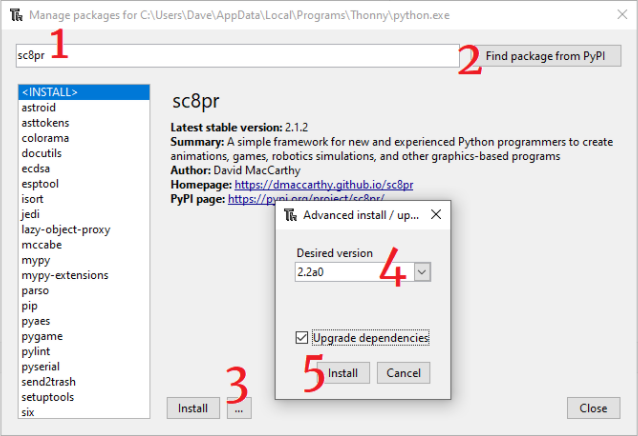
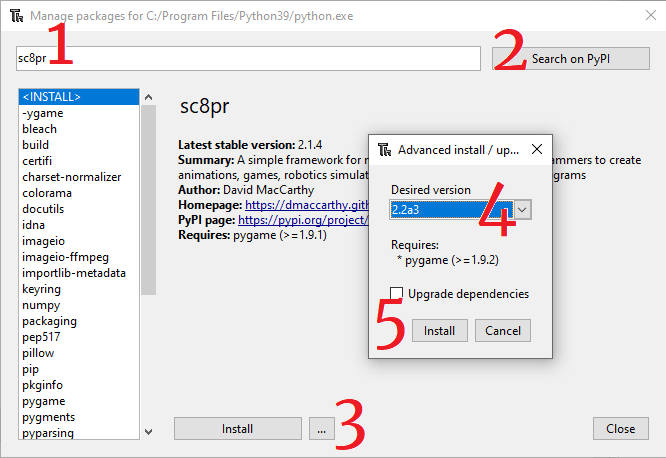
Update [2021.10.10]

diff --git a/sci/p20/p20.js b/sci/p20/p20.js
@@ -1,54 +1,20 @@
-let kin1d = [
-    // {title:"Assignment Booklet", gdrv:"16_BYOnwY0FuwW7wXeVVwQ88IoC7tZ2gb"},
-    {title:"Position & Displacement", icon:1, vid:"V8hJhTE3bUk", menu:[
-        {title:"Lesson Notes", open:"kin/displ.html"},
-        {title:"Assignment Handout", gdrv:"13YDvlb2IifPhmuuTyGMwO65T82H77bzL"},
-        {title:"Practice Solutions", gdoc:"1EkZMELpyV191px9oqb_zru74Xaf01eEAZsmLG4c3-jw"},
-    ]},
-    {title:"Velocity & Speed", icon:1, menu:[
-        {title:"Lesson Notes", open:"kin/vel.html"},
-        {title:"Assignment Handout", gdrv:"1P3ebOhTWW83ybxkfQxX2ASKBcCrnHz90"},
-        {title:"Practice Solutions", gdoc:"1eRjia_G9Zny7pNvpGp282N-XVMRCjJh9MWwRlNCW36A"},
-    ]},
-    {title:"Lab: Motion of a Rolling Ball", gdrv:"1W92quSuyMqFEnT1QdJlm0Y4poPIvDTGI"},
-    {title:"Motion Graphs", icon:1, menu:[
-        {title:"Lesson Notes", open:"kin/graph.html"},
-        {title:"Assignment Handout", gdrv:"1AIEupND1GX2W-yd5QZ0CaDh97KE7mM8n"},
-        {title:"Practice Solutions", gdoc:"12uwMmaCWOsEemtR8fj6jujP-FjGihNef3Wn08nHmCOY"},
-    ]},
-    {title:"Acceleration", icon:1, menu:[
-        {title:"Lesson Notes", open:"kin/accel.html"},
-        {title:"Assignment Handout", gdrv:"1Cy9IOAlj7GwufjHM6vHXMa2UgCaH539S"},
-        {title:"Practice Solutions", gdoc:"1RVLIxYzDym_sqjgL8SYdxtLIts9mJ0BAcoEG0FCZfvo"},
-    ]},
-    {title:"Lab: Motion of a Bouncing Ball", icon:"ball", menu:[
-        {title:"Handout", gdrv:"10Huo142Lt2-qn3suDdfvbK3wp6Cg2TeA"},
-        {title:"Simulation", icon:1, open:"../applet/bounce.html"},
-    ]},
-    {title:"Uniform Accelerated Motion", icon:1, menu:[
-        {title:"Lesson Notes", open:"kin/uam.html"},
-        {title:"Assignment Handout", gdrv:"1FkSyKa-Sd_jvq5MhwjypL0p1MtL__jMv"},
-        {title:"Practice Solutions", gdoc:"14GrA1jhjfFNOpCzbr0xraPt_mwPBfb3PHOFu7G6e6XQ"},
-    ]}
-];
-
 let vec2d = [
     // {title:"Assignment Booklet", gdrv:"1qG81lRprAmdtcidfph_w-1kyF1VJUFrd"},
     {title:"2D Vectors Applet", icon:"html5", open:"https://applets.davidmaccarthy.repl.co/vec2d"},
     {title:"Magnitude & Direction", icon:1, menu:[
         {title:"Lesson Notes", open:"vec/mag.html"},
-        {title:"Assignment Handout", unavail:1, gdrv:""},
-        {title:"Practice Solutions", unavail:1, gdoc:"14vQp9XvGS1yPjDoLDfFNE2u5MAnIqKgcXTgIAwVCRQQ"},
+        {title:"Assignment Handout", gdrv:"1vim1oj76fW9OQc6tCA_mwlSIH4ejfbbk"},
+        {title:"Practice Solutions", gdoc:"14vQp9XvGS1yPjDoLDfFNE2u5MAnIqKgcXTgIAwVCRQQ"},
     ]},
     {title:"Polar & Cartesian Form", icon:1, menu:[
         {title:"Lesson Notes", open:"vec/polar.html"},
-        {title:"Assignment Handout", unavail:1, gdrv:""},
-        {title:"Practice Solutions", unavail:1, gdoc:"14-CgdDFUiCwpJfPlghKpw1iMRfC8J3NJBwrNP20fois"},
+        {title:"Assignment Handout", gdrv:"1GzdkoyY60Nn2LaQ93qSoy8WUVFdeLBt-"},
+        {title:"Practice Solutions", gdoc:"14-CgdDFUiCwpJfPlghKpw1iMRfC8J3NJBwrNP20fois"},
     ]},
     {title:"Vector Arithmetic", icon:1, menu:[
         {title:"Lesson Notes", open:"vec/arith.html"},
-        {title:"Assignment Handout", unavail:1, gdrv:""},
-        {title:"Practice Solutions", unavail:1, gdoc:"1960E_v1vFacD-7sbtFqrE3Xzqjr32rO4H435r4aT3WM"},
+        {title:"Assignment Handout", gdrv:"15xe5uJ67N0FNz4171ZUIm2y0sT7tL_xM"},
+        {title:"Practice Solutions", gdoc:"1960E_v1vFacD-7sbtFqrE3Xzqjr32rO4H435r4aT3WM"},
     ]},
     {title:"Projectile Motion", icon:1, menu:[
         {title:"Lesson Notes", open:"vec/proj.html"},
@@ -137,6 +103,40 @@ let energy = [
         {title:"Practice Solutions", gdoc:"1PHRVmr9tMgm8ncSCnykQ1zYYznPADaJZV1KcrYZAWmQ"},
     ]},
     {title:"Chapter Review", icon:"lesson", ajax:"energy/summary.htm", menu:[]},
+];
+
+let kin1d = [
+    // {title:"Assignment Booklet", gdrv:"16_BYOnwY0FuwW7wXeVVwQ88IoC7tZ2gb"},
+    {title:"Position & Displacement", icon:1, vid:"V8hJhTE3bUk", menu:[
+        {title:"Lesson Notes", open:"kin/displ.html"},
+        {title:"Assignment Handout", gdrv:"13YDvlb2IifPhmuuTyGMwO65T82H77bzL"},
+        {title:"Practice Solutions", gdoc:"1EkZMELpyV191px9oqb_zru74Xaf01eEAZsmLG4c3-jw"},
+    ]},
+    {title:"Velocity & Speed", icon:1, menu:[
+        {title:"Lesson Notes", open:"kin/vel.html"},
+        {title:"Assignment Handout", gdrv:"1P3ebOhTWW83ybxkfQxX2ASKBcCrnHz90"},
+        {title:"Practice Solutions", gdoc:"1eRjia_G9Zny7pNvpGp282N-XVMRCjJh9MWwRlNCW36A"},
+    ]},
+    {title:"Lab: Motion of a Rolling Ball", gdrv:"1W92quSuyMqFEnT1QdJlm0Y4poPIvDTGI"},
+    {title:"Motion Graphs", icon:1, menu:[
+        {title:"Lesson Notes", open:"kin/graph.html"},
+        {title:"Assignment Handout", gdrv:"1AIEupND1GX2W-yd5QZ0CaDh97KE7mM8n"},
+        {title:"Practice Solutions", gdoc:"12uwMmaCWOsEemtR8fj6jujP-FjGihNef3Wn08nHmCOY"},
+    ]},
+    {title:"Acceleration", icon:1, menu:[
+        {title:"Lesson Notes", open:"kin/accel.html"},
+        {title:"Assignment Handout", gdrv:"1Cy9IOAlj7GwufjHM6vHXMa2UgCaH539S"},
+        {title:"Practice Solutions", gdoc:"1RVLIxYzDym_sqjgL8SYdxtLIts9mJ0BAcoEG0FCZfvo"},
+    ]},
+    {title:"Lab: Motion of a Bouncing Ball", icon:"ball", menu:[
+        {title:"Handout", gdrv:"10Huo142Lt2-qn3suDdfvbK3wp6Cg2TeA"},
+        {title:"Simulation", icon:1, open:"../applet/bounce.html"},
+    ]},
+    {title:"Uniform Accelerated Motion", icon:1, menu:[
+        {title:"Lesson Notes", open:"kin/uam.html"},
+        {title:"Assignment Handout", gdrv:"1FkSyKa-Sd_jvq5MhwjypL0p1MtL__jMv"},
+        {title:"Practice Solutions", gdoc:"14GrA1jhjfFNOpCzbr0xraPt_mwPBfb3PHOFu7G6e6XQ"},
+    ]}
 ];
 
 /*

diff --git a/sci/cs/game/sketch.html b/sci/cs/game/sketch.html
@@ -23,20 +23,20 @@ let course = "game";
     which is based on <a href="https://www.pygame.org" target="pyg" class="Code">pygame</a>.</p>
 <p>You will need both <code>pygame</code> and <code>sc8pr</code> installed for programs to work.
     If you are using <a class="Code" target="repl" href="https://repl.it">repl.it</a>, the built-in package manager should recognize programs that require these packages
-    and install them automatically. You may need to edit the repl.it packager files to specify the appropriate versions of the software; this tutorial assumes <code>sc8pr 2.2a0</code> and <code>pygame 1.9.6</code> or <code>2.0.1</code>.</p>
+    and install them automatically. You may need to edit the repl.it packager files to specify the appropriate versions of the software; this tutorial assumes <code>sc8pr 2.2a3</code> and <code>pygame 1.9.6</code> or <code>2.0.x</code>.</p>
 <p> If you are using <a target="Th" href="https://thonny.org/">Thonny</a> as an IDE, go to the “Tools” menu and open the “Manage Packages…” dialog.</p>
 <p class="Center"><img src="img/thonny.png" alt="Thonny"/></p>
 <ol>
     <li>Type the name of the software package, <code>sc8pr</code>.</li>
     <li>Click the button to search the Python Package Index (PyPI).</li>
     <li>Click the three dots.</li>
-    <li>Select the desired version: <code>2.2a0</code>.</li>
+    <li>Select the desired version: <code>2.2a3</code>.</li>
     <li>Check “Upgrade Dependencies” and then click the Install button.</li>
 </ol>
 <p>If you are not using Thonny, you can run the following command in a terminal. You may need to run it as an administrator.</p>
-<pre class="IO">pip3 install -U sc8pr==2.2a0</pre>
+<pre class="IO">pip3 install -U sc8pr==2.2a3</pre>
 <p>There may be different ways to invoke the <code>pip3</code> command depending on what operating system you are using and how the Python environment is configured. For example, if Windows does not recognize the <code>pip3</code> command, try:</p>
-<pre class="IO">py -3 -m pip install -U sc8pr==2.2a0</pre>
+<pre class="IO">py -3 -m pip install -U sc8pr==2.2a3</pre>
 <p>Installing <code>sc8pr</code> should install <code>pygame</code> automatically on most platforms.</p>
 </div>
 

diff --git a/sci/cs/robo/intro.html b/sci/cs/robo/intro.html
@@ -39,7 +39,7 @@ let course = "robo";
     <li>Type the name of the software package, <code>sc8pr</code>.</li>
     <li>Click the button to search the Python Package Index (PyPI).</li>
     <li>Click the three dots.</li>
-    <li>Select the desired version. This course uses <code>sc8pr 2.2a0</code>.</li>
+    <li>Select the desired version. This course uses <code>sc8pr 2.2a3</code>.</li>
     <li>Check “Upgrade Dependencies” and then click the Install button.</li>
 </ol>
 </div>
@@ -55,7 +55,7 @@ let course = "robo";
 
 <pre class="Code"><span class="Comment"># Program 'r01_ex1.py'...</span>
 
-from sc8pr.examples.robotSim import Arena
+from sc8pr.robot.arena import Arena
 
 def brain(robot):
     <span class="Comment">"This function controls the robot"</span>
@@ -89,7 +89,7 @@ Arena.run(brain)</pre>
 
 <pre class="Code"><span class="Comment"># Program 'r01_ex2.py'...</span>
 
-from sc8pr.examples.robotSim import Arena
+from sc8pr.robot.arena import Arena
 
 def brain(robot):
     <span class="Comment">"Move the robot clockwise"</span>
@@ -103,7 +103,7 @@ Arena.run(brain)</pre>
 
 <pre class="Code"><span class="Comment"># Program 'r01_ex3.py'...</span>
 
-from sc8pr.examples.robotSim import Arena
+from sc8pr.robot.arena import Arena
 
 def brain(robot):
     <span class="Comment">"Spin the robot clockwise"</span>
@@ -121,7 +121,7 @@ Arena.run(brain)</pre>
 
 <pre class="Code"><span class="Comment"># Program 'r01_ex4.py'...</span>
 
-from sc8pr.examples.robotSim import Arena
+from sc8pr.robot.arena import Arena
 
 def brain(robot):
     <span class="Comment">"Go forward for 2.5 seconds"</span>
@@ -141,7 +141,7 @@ Arena.run(brain)</pre>
     program <code>r01_letter.py</code>  to make the robot draw a different letter on the floor of the arena.
 <!--pre class="Code"><span class="Comment"># Program 'r01_letter.py'...</span>
 
-from sc8pr.examples.robotSim import Arena
+from sc8pr.robot.arena import Arena
 
 def brain(robot):
     <span class="Comment">"Draw a letter"</span>

diff --git a/sci/p20/vec/arith.html b/sci/p20/vec/arith.html
@@ -90,7 +90,7 @@ td {text-align:center}
 </section>
 
 <section id="ex1" data-last="?"><h3>Example</h3>
-<p class="Blue">Calculate the acceleration of a 10.0-kilogram mass that experiences a normal force of 96.6 N [80.0°] and a friction force of 8.00 N [170°] in addition to gravity.</p>
+<p class="Blue">Calculate the net force acting on a mass that experiences a gravitational force of 98.1 N, a normal force of 96.6 N [80.0°] and a friction force of 8.00 N [170°].</p>
 <p class="Center" data-mark="="><img src="img/ex1.png" alt="VecDiag" class="w16"/><br/>
 <table class="Normal" data-mark="+">
     <tr><th>Force</th><th>\(|\vec{\mathbf F}|\) / N</th><th>\(\theta\)</th><th>\(\vec{\mathbf F}_x = |\vec{\mathbf F}|\cos\theta\)</th><th>\(\vec{\mathbf F}_y = |\vec{\mathbf F}|\sin\theta\)</th></tr>
@@ -99,8 +99,8 @@ td {text-align:center}
     <tr><td>Friction</td><td>8.00</td><td>170°</td><td><span data-mark="+" class="Red">–7.88</span></td><td><span data-mark="=" class="Red">1.39</span></td></tr>
     <tr><td>Net</td><td><span data-mark="5" class="Red">9.04</span></td><td><span data-mark="6" class="Red">350°</span></td><td><span data-mark="4" class="Red">8.90</span></td><td><span data-mark="4" class="Red">–1.57</span></td></tr>
 </table>
-<p data-mark="+">Now use Newton’s 2nd Law: $$\vec{\mathbf a} = {\vec{\mathbf F}_{net} \over m}$$</p>
-<p data-mark="+">The acceleration is 0.904 m/s<sup>2</sup> [350°] in polar form, or (0.890, –0.157) m/s<sup>2</sup> in Cartesian form.</p>
+<!--p data-mark="+">Now use Newton’s 2nd Law: $$\vec{\mathbf a} = {\vec{\mathbf F}_{net} \over m}$$</p>
+<p data-mark="+">The acceleration is 0.904 m/s<sup>2</sup> [350°] in polar form, or (0.890, –0.157) m/s<sup>2</sup> in Cartesian form.</p-->
 </section>
 
 </article></body>

diff --git a/sci/cs/robo/func.html b/sci/cs/robo/func.html
@@ -41,7 +41,7 @@ let course = "robo";
 
 <pre class="Code"><span class="Comment"># Program 'r03_ex1.py'</span>
 
-from sc8pr.examples.robotSim import Arena
+from sc8pr.robot.arena import Arena
 
 def move(robot, time, motors=1):
     <span class="Comment">"Move the robot for the specified amount of time"</span>
@@ -103,7 +103,7 @@ robot.motors = 0            <span class="Comment"># Turn motors off</span></pre>
 
 <pre class="Code"><span class="Comment"># Program 'r03_turn.py'</span>
 
-from sc8pr.examples.robotSim import Arena
+from sc8pr.robot.arena import Arena
 
 def turnTo(robot, angle, motors=(0.1, -0.1), accuracy=0.5):
     <span class="Comment">"Turn the robot until it faces the specified angle"</span>
@@ -120,7 +120,7 @@ Arena.run(brain)</pre></li>
     Complete the program below by copying your <code>turnTo</code> function.
 <pre class="Code"><span class="Comment"># Program 'r03_figure8.py'</span>
 
-from sc8pr.examples.robotSim import Arena
+from sc8pr.robot.arena import Arena
 
 def circle(robot, motors):
     <span class="Comment">"Draw a circle"</span>
@@ -141,7 +141,7 @@ Arena.run(brain)</pre></li>
     This will be easiest if you use your <code>turnTo</code> function and the <code>move</code> function from the example.
 <pre class="Code"><span class="Comment"># Program 'r03_square.py'</span>
 
-from sc8pr.examples.robotSim import Arena
+from sc8pr.robot.arena import Arena
 
 def square(robot, time_per_side, motors=1):
     <span class="Comment">"Move around a square"</span>

diff --git a/sci/cs/game/mouse.html b/sci/cs/game/mouse.html
@@ -67,7 +67,7 @@ Sketch().play()</pre>
     method (shown above in red).</p>
 
 <h3>Project</h3>
-<p>Create your own video game using the <code>v05_game.py</code> program. Your game can be original or a
+<p>Create your own video game using the <code>game.py</code> program. Your game can be original or a
     recreation of a classic game but your code must be 100% your own. It must be graphics-based (as
     opposed to a console game) and the player must be able to interact using mouse and/or keyboard events.
     Your program must follow good programming practices, such as:</p>
@@ -78,7 +78,7 @@ Sketch().play()</pre>
     <li>Procedures that perform a single task</li>
     <li>IPO structure within each procedure (input first, then processing, and output only after all processing is complete)</li>
 </ul>
-<p>Use the <code>img</code> folder for any images and/or audio files required by your program.</p>
+<p>Use the <code>media</code> folder for any images and/or audio files required by your program.</p>
 <p>After completing the program, you must also make a <em>User’s Manual</em> to explain the goal of the
     game and how to use it. Save a copy of this <a target="GDoc" href="https://docs.google.com/document/d/1QG7S6bSxuvmEO79HSuHO2w66VpvQqZjkbfbo2zuw2jI">Google
     Doc</a>. There is a “Credits” section for you to record the source of any images or audio that you did

diff --git a/sci/cs/robo/colour.html b/sci/cs/robo/colour.html
@@ -26,7 +26,7 @@ let course = "robo";
     so you must call the <code>robot.updateSensors</code> function before checking the sensor colours.</p>
 <pre class="Code"><span class="Comment"># Program 'r04_ex1.py'</span>
 
-from sc8pr.examples.robotSim import Arena, quilt
+from sc8pr.robot.arena import Arena, quilt
 
 def brain(robot):
     robot.motors = 0.3
@@ -100,7 +100,7 @@ Arena.run(brain, pattern=quilt)</pre>
     either <code>True</code> (the colour is blue) or <code>False</code> (the colour is not blue.)</p>
 <pre class="Code"><span class="Comment"># Program 'r04_ex2.py'</span>
 
-from sc8pr.examples.robotSim import Arena, quilt
+from sc8pr.robot.arena import Arena, quilt
 from sc8pr.misc.hsv import hsvBox
 
 def isBlue(color):
@@ -126,7 +126,7 @@ Arena.run(brain, pattern=quilt)</pre>
     warning track instead of running into the wall.
 <pre class="Code"><span class="Comment"># Program 'r04_arena1.py'</span>
 
-from sc8pr.examples.robotSim import Arena, quilt
+from sc8pr.robot.arena import Arena, quilt
 
 def brain(robot):
     turnTo(robot, 290)

diff --git a/sci/cs/robo/list.html b/sci/cs/robo/list.html
@@ -84,7 +84,7 @@ for item in data:
     move forward again for 2 seconds, turn by 90°, and then move forward for 2 seconds.
 <pre class="Code"><span class="Comment"># Program 'r06_directions.py'</span>
 
-from sc8pr.examples.robotSim import Arena
+from sc8pr.robot.arena import Arena
 
 data = [3, 135, 2, 90, 2]
 
@@ -108,7 +108,7 @@ Complete the <code>brain</code> function so that the robot follows the instructi
     then change it to twelve once you know the program works properly.)</p>
 <pre class="Code"><span class="Comment"># Program 'r06_party.py'</span>
 
-from sc8pr.examples.robotSim import Party
+from sc8pr.robot.party import Party
 
 def brain(robot):
     <span class="Comment">"Learn the names of the other robots"</span>

diff --git a/sci/cs/robo/park.html b/sci/cs/robo/park.html
@@ -26,7 +26,7 @@ let course = "robo";
     bluish-white, which will have the same H and V values as ordinary blue, but a smaller S value.
 <pre class="Code"><span class="Comment"># Program 'r07_line1.py'</span>
 
-from sc8pr.examples.robotSim import ParkingLot
+from sc8pr.robot.park import ParkingLot
 
 def followLine(robot):
     <span class="Comment">"Follow the blue line"</span>
@@ -50,7 +50,7 @@ ParkingLot.run(brain)</pre>
     and by a much larger amount when it turns around at the end.
 <pre class="Code"><span class="Comment"># Program 'r07_ex1.py'</span>
 
-from sc8pr.examples.robotSim import ParkingLot
+from sc8pr.robot.park import ParkingLot
 
 def brain(robot):
     robot.gyroSample(3)

diff --git a/sci/cs/robo/soccer.html b/sci/cs/robo/soccer.html
@@ -24,12 +24,12 @@ let course = "robo";
 
 <span class="Comment">"Robot soccer simulation"</span>
 
-from sc8pr.examples.soccer import main
+from sc8pr.robot.soccer import play
 
 def brain(robot):
     <span class="Comment">"Soccer robot brain"</span>
 
-main(brain)</pre>
+play(brain)</pre>
 
 <p>The robot’s front sensor will detect blue when pointed at the boards, yellow (different shades) when pointed at the opposing player or net, and red when pointed at its own net. Since the ball is half black and half white, it will register as grey on the colour sensor.</p>
 <p>The downward sensor will detect yellow or red in the goal creases and green on the turf.</p>

diff --git a/sci/s10/s10.js b/sci/s10/s10.js
@@ -4,7 +4,7 @@ let phys = {title:"Unit B: Physics", id:"phys", icon:"rocket", menu:[
     {title:"Assignment Booklet", gdrv:"1dKbreMxOXUs2u_TwsgtoqFPgQIS9PVAM"},
     // {title:"Science Skills", icon:"flask", menu:[]},
     {title:"Part 1: Science Skills & Motion", icon:"rocket", menu:[
-        {title:"Significant Digits", unavail:1, icon:1, open:"phys/sigdig.html"},
+        // {title:"Significant Digits", unavail:1, icon:1, open:"phys/sigdig.html"},
         {title:"Scientific Notation", icon:1, open:"phys/sciNot.html"},
         {title:"SI Units", icon:1, open:"phys/si.html"},
         // {title:"Scientific Method", icon:1, open:"phys/sciMeth.html"},

diff --git a/sci/cs/robo/turn.html b/sci/cs/robo/turn.html
@@ -22,7 +22,7 @@ let course = "robo";
 <p>A better method is to rely on the robot’s <b class="Red">sensors</b> to decide when to stop the motors. The <code>sc8pr</code> robot simulation has a sensor called <code>gyro</code> (gyroscope) that indicates the direction the robot is pointing.</p>
 <pre class="Code"><span class="Comment"># Program 'r02_ex1.py'</span>
 
-from sc8pr.examples.robotSim import Arena
+from sc8pr.robot.arena import Arena
 from sc8pr.geom import angleDifference
 
 def brain(robot):
